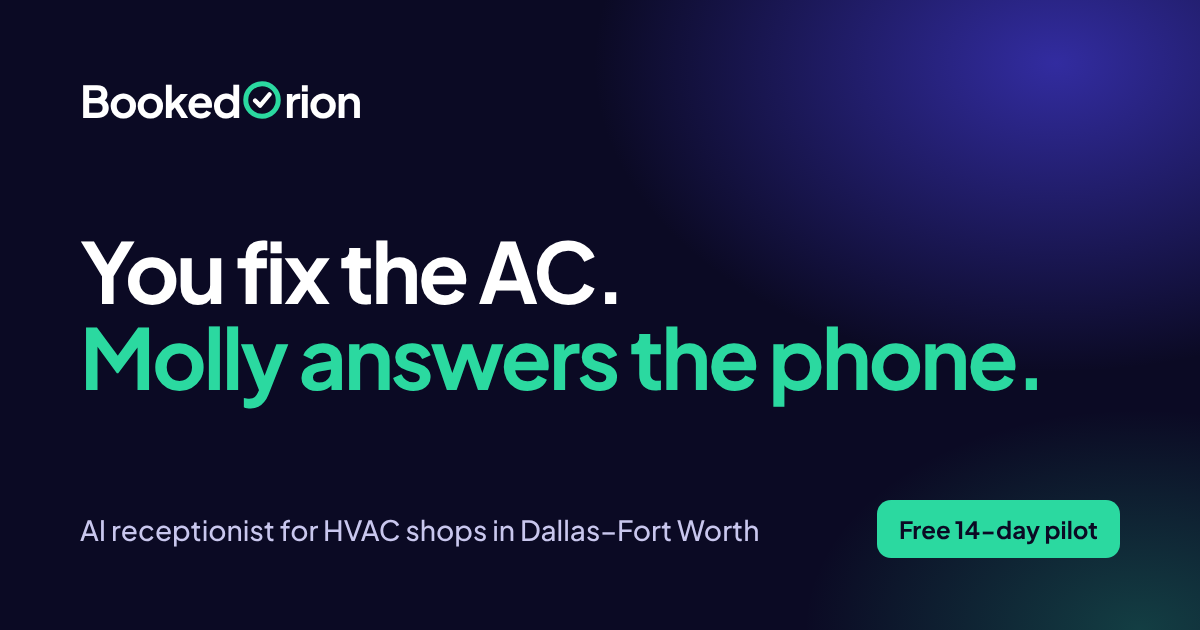
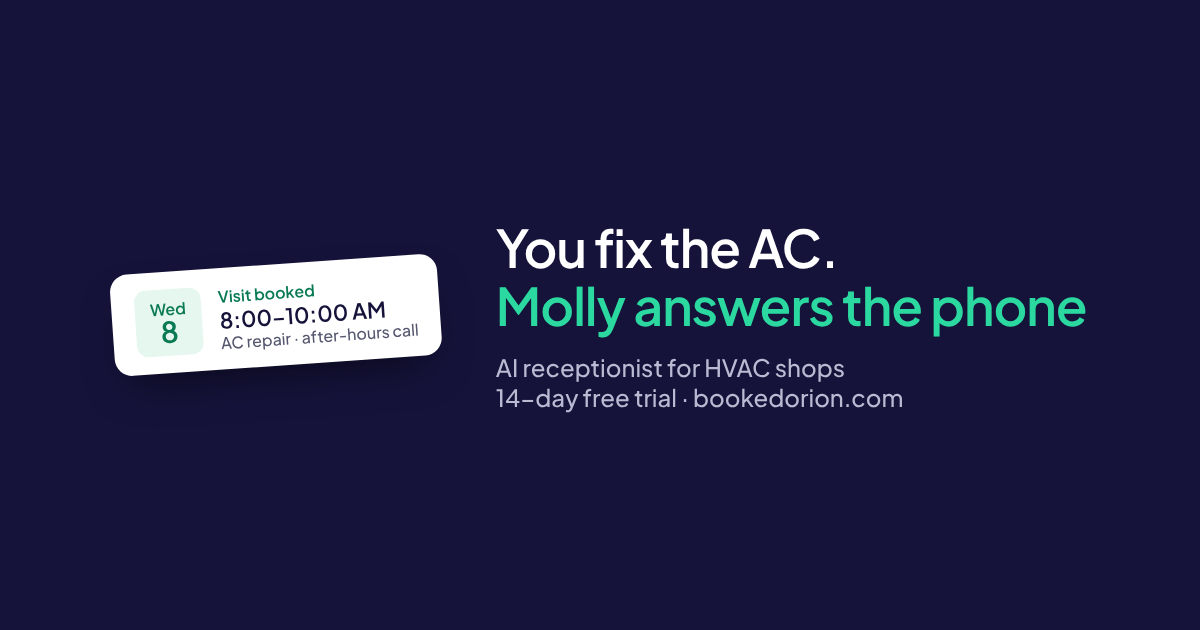
New og-image: remove DFW and pilot wording (rulebook C2)
Claude-Session: https://claude.ai/code/session_018qukg6LHwZzjQVJN68nRzn

diff --git a/blog/call-forwarding-team-answers-first/index.html b/blog/call-forwarding-team-answers-first/index.html
@@ -10,7 +10,7 @@
 <meta property="og:description" content="Conditional call forwarding lets your phone ring first and sends only missed or busy calls onward. Here is how it works on common carriers and office phone systems.">
 <meta property="og:type" content="article">
 <meta property="og:url" content="https://bookedorion.com/blog/call-forwarding-team-answers-first/">
-<meta property="og:image" content="https://bookedorion.com/og-image.png">
+<meta property="og:image" content="https://bookedorion.com/og-image.png?v=2">
 <meta name="twitter:card" content="summary_large_image">
 <meta name="theme-color" content="#0B0A24">
 <link rel="icon" type="image/png" sizes="32x32" href="/favicon-32.png">

diff --git a/blog/answering-service-vs-ai-receptionist/index.html b/blog/answering-service-vs-ai-receptionist/index.html
@@ -10,7 +10,7 @@
 <meta property="og:description" content="Live answering services and AI receptionists both answer your phone. Here is how they compare on cost, booking, emergencies and caller experience.">
 <meta property="og:type" content="article">
 <meta property="og:url" content="https://bookedorion.com/blog/answering-service-vs-ai-receptionist/">
-<meta property="og:image" content="https://bookedorion.com/og-image.png">
+<meta property="og:image" content="https://bookedorion.com/og-image.png?v=2">
 <meta name="twitter:card" content="summary_large_image">
 <meta name="theme-color" content="#0B0A24">
 <link rel="icon" type="image/png" sizes="32x32" href="/favicon-32.png">

diff --git a/blog/hvac-emergency-call-triage/index.html b/blog/hvac-emergency-call-triage/index.html
@@ -10,7 +10,7 @@
 <meta property="og:description" content="A plain triage list for HVAC calls: what needs action right now, what can be booked for tomorrow, and what to tell callers about gas and carbon monoxide.">
 <meta property="og:type" content="article">
 <meta property="og:url" content="https://bookedorion.com/blog/hvac-emergency-call-triage/">
-<meta property="og:image" content="https://bookedorion.com/og-image.png">
+<meta property="og:image" content="https://bookedorion.com/og-image.png?v=2">
 <meta name="twitter:card" content="summary_large_image">
 <meta name="theme-color" content="#0B0A24">
 <link rel="icon" type="image/png" sizes="32x32" href="/favicon-32.png">

diff --git a/blog/summer-rush-phone-checklist/index.html b/blog/summer-rush-phone-checklist/index.html
@@ -10,7 +10,7 @@
 <meta property="og:description" content="The first heat wave brings more calls than your office can handle. Seven things to set up before it hits, so no booking slips through.">
 <meta property="og:type" content="article">
 <meta property="og:url" content="https://bookedorion.com/blog/summer-rush-phone-checklist/">
-<meta property="og:image" content="https://bookedorion.com/og-image.png">
+<meta property="og:image" content="https://bookedorion.com/og-image.png?v=2">
 <meta name="twitter:card" content="summary_large_image">
 <meta name="theme-color" content="#0B0A24">
 <link rel="icon" type="image/png" sizes="32x32" href="/favicon-32.png">

diff --git a/blog/missed-calls-after-hours/index.html b/blog/missed-calls-after-hours/index.html
@@ -10,7 +10,7 @@
 <meta property="og:description" content="A homeowner with a dead AC rarely leaves a voicemail. Here is what happens to that call, what it costs, and four ways to stop losing it.">
 <meta property="og:type" content="article">
 <meta property="og:url" content="https://bookedorion.com/blog/missed-calls-after-hours/">
-<meta property="og:image" content="https://bookedorion.com/og-image.png">
+<meta property="og:image" content="https://bookedorion.com/og-image.png?v=2">
 <meta name="twitter:card" content="summary_large_image">
 <meta name="theme-color" content="#0B0A24">
 <link rel="icon" type="image/png" sizes="32x32" href="/favicon-32.png">

diff --git a/blog/questions-before-ai-answers-your-phone/index.html b/blog/questions-before-ai-answers-your-phone/index.html
@@ -10,7 +10,7 @@
 <meta property="og:description" content="AI receptionists are not all the same. Ask these five questions before one talks to your customers.">
 <meta property="og:type" content="article">
 <meta property="og:url" content="https://bookedorion.com/blog/questions-before-ai-answers-your-phone/">
-<meta property="og:image" content="https://bookedorion.com/og-image.png">
+<meta property="og:image" content="https://bookedorion.com/og-image.png?v=2">
 <meta name="twitter:card" content="summary_large_image">
 <meta name="theme-color" content="#0B0A24">
 <link rel="icon" type="image/png" sizes="32x32" href="/favicon-32.png">

diff --git a/getting-started/index.html b/getting-started/index.html
@@ -10,7 +10,7 @@
 <meta property="og:description" content="The six-step plan to get Molly live for your HVAC shop: what you do, what we do, what we need from you and how long it takes.">
 <meta property="og:type" content="article">
 <meta property="og:url" content="https://bookedorion.com/getting-started/">
-<meta property="og:image" content="https://bookedorion.com/og-image.png">
+<meta property="og:image" content="https://bookedorion.com/og-image.png?v=2">
 <meta name="twitter:card" content="summary_large_image">
 <meta name="theme-color" content="#0B0A24">
 <link rel="icon" type="image/png" sizes="32x32" href="/favicon-32.png">

diff --git a/how-it-works/index.html b/how-it-works/index.html
@@ -10,7 +10,7 @@
 <meta property="og:description" content="Step by step: how Molly answers, triages, books and reports on your HVAC calls, and how setup works in a few days.">
 <meta property="og:type" content="article">
 <meta property="og:url" content="https://bookedorion.com/how-it-works/">
-<meta property="og:image" content="https://bookedorion.com/og-image.png">
+<meta property="og:image" content="https://bookedorion.com/og-image.png?v=2">
 <meta name="twitter:card" content="summary_large_image">
 <meta name="theme-color" content="#0B0A24">
 <link rel="icon" type="image/png" sizes="32x32" href="/favicon-32.png">

diff --git a/blog/index.html b/blog/index.html
@@ -10,7 +10,7 @@
 <meta property="og:description" content="Practical advice for HVAC owners: missed calls, after-hours answering, emergency triage and growing your shop.">
 <meta property="og:type" content="website">
 <meta property="og:url" content="https://bookedorion.com/blog/">
-<meta property="og:image" content="https://bookedorion.com/og-image.png">
+<meta property="og:image" content="https://bookedorion.com/og-image.png?v=2">
 <meta name="twitter:card" content="summary_large_image">
 <meta name="theme-color" content="#0B0A24">
 <link rel="icon" type="image/png" sizes="32x32" href="/favicon-32.png">

diff --git a/privacy/index.html b/privacy/index.html
@@ -10,7 +10,7 @@
 <meta property="og:description" content="How BookedOrion collects, uses and protects information, including call data and text messages.">
 <meta property="og:type" content="article">
 <meta property="og:url" content="https://bookedorion.com/privacy/">
-<meta property="og:image" content="https://bookedorion.com/og-image.png">
+<meta property="og:image" content="https://bookedorion.com/og-image.png?v=2">
 <meta name="twitter:card" content="summary_large_image">
 <meta name="theme-color" content="#0B0A24">
 <link rel="icon" type="image/png" sizes="32x32" href="/favicon-32.png">

diff --git a/about/index.html b/about/index.html
@@ -10,7 +10,7 @@
 <meta property="og:description" content="BookedOrion helps HVAC shops stop losing jobs to voicemail. Meet the founder and our promises.">
 <meta property="og:type" content="article">
 <meta property="og:url" content="https://bookedorion.com/about/">
-<meta property="og:image" content="https://bookedorion.com/og-image.png">
+<meta property="og:image" content="https://bookedorion.com/og-image.png?v=2">
 <meta name="twitter:card" content="summary_large_image">
 <meta name="theme-color" content="#0B0A24">
 <link rel="icon" type="image/png" sizes="32x32" href="/favicon-32.png">

diff --git a/terms/index.html b/terms/index.html
@@ -10,7 +10,7 @@
 <meta property="og:description" content="Terms for the BookedOrion website, free trial, plans and text messaging program.">
 <meta property="og:type" content="article">
 <meta property="og:url" content="https://bookedorion.com/terms/">
-<meta property="og:image" content="https://bookedorion.com/og-image.png">
+<meta property="og:image" content="https://bookedorion.com/og-image.png?v=2">
 <meta name="twitter:card" content="summary_large_image">
 <meta name="theme-color" content="#0B0A24">
 <link rel="icon" type="image/png" sizes="32x32" href="/favicon-32.png">
